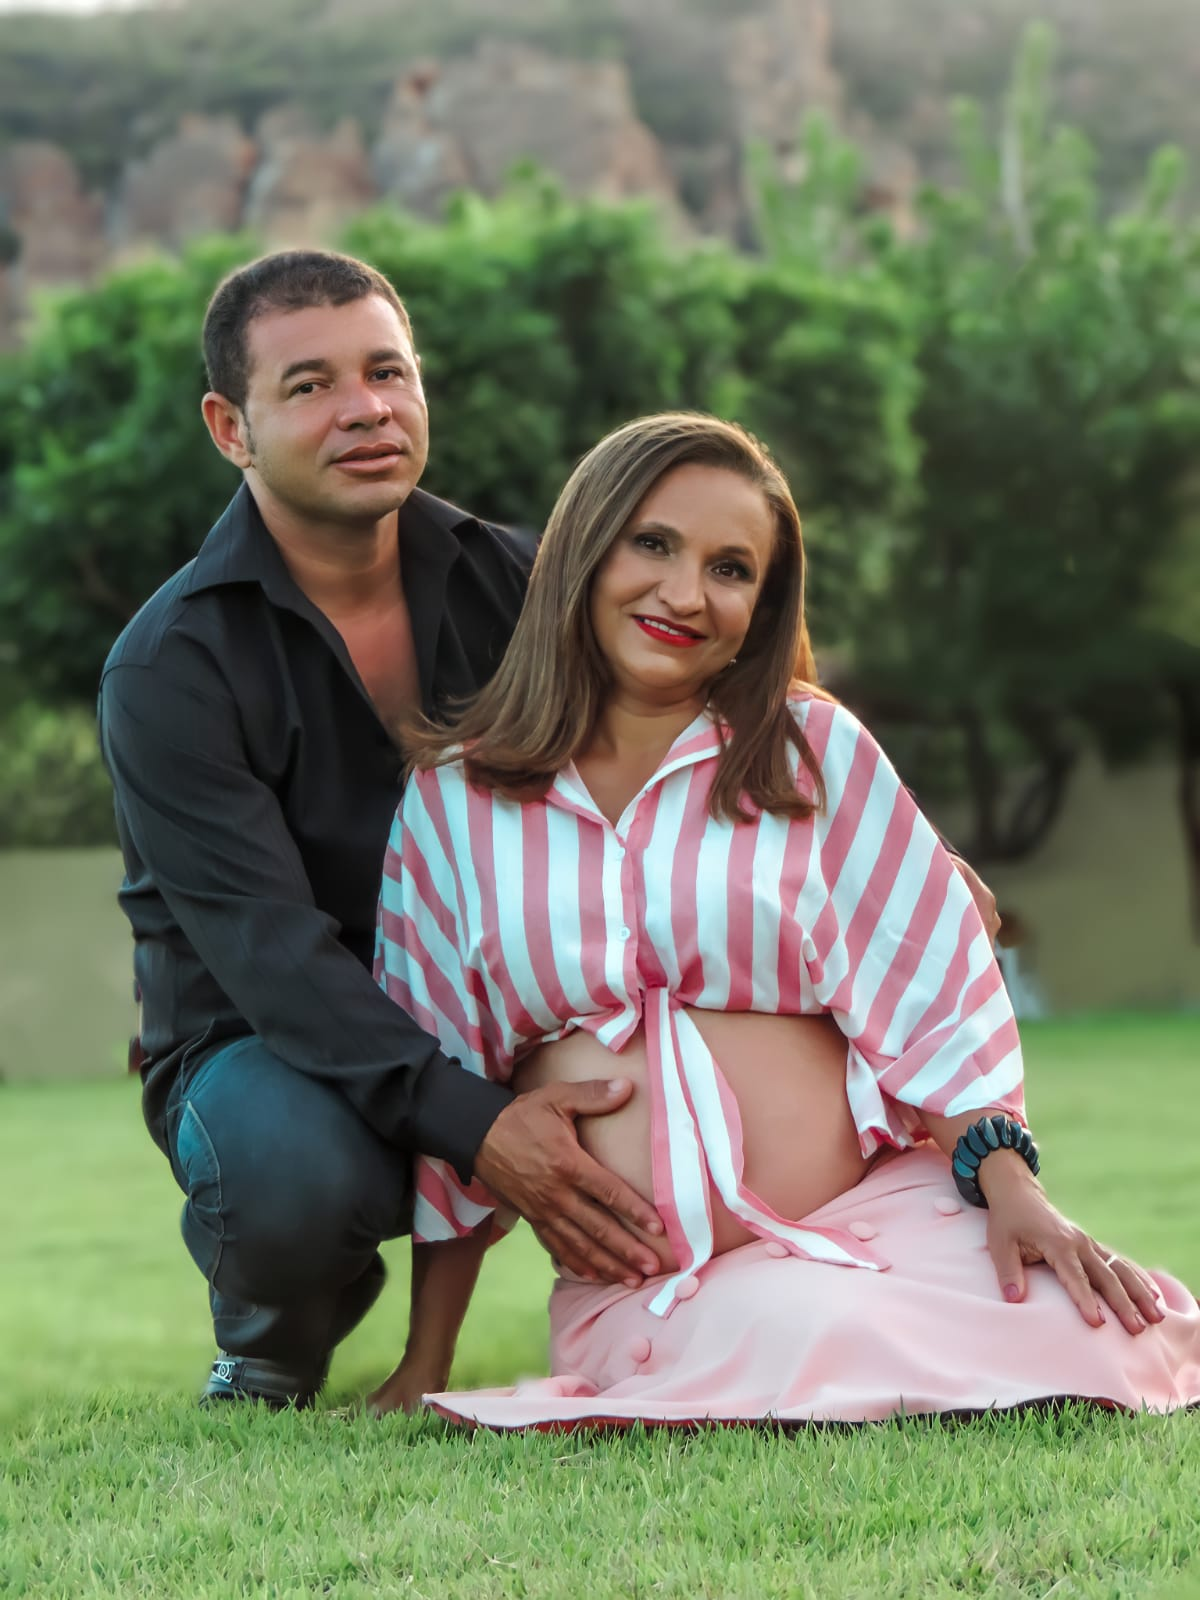
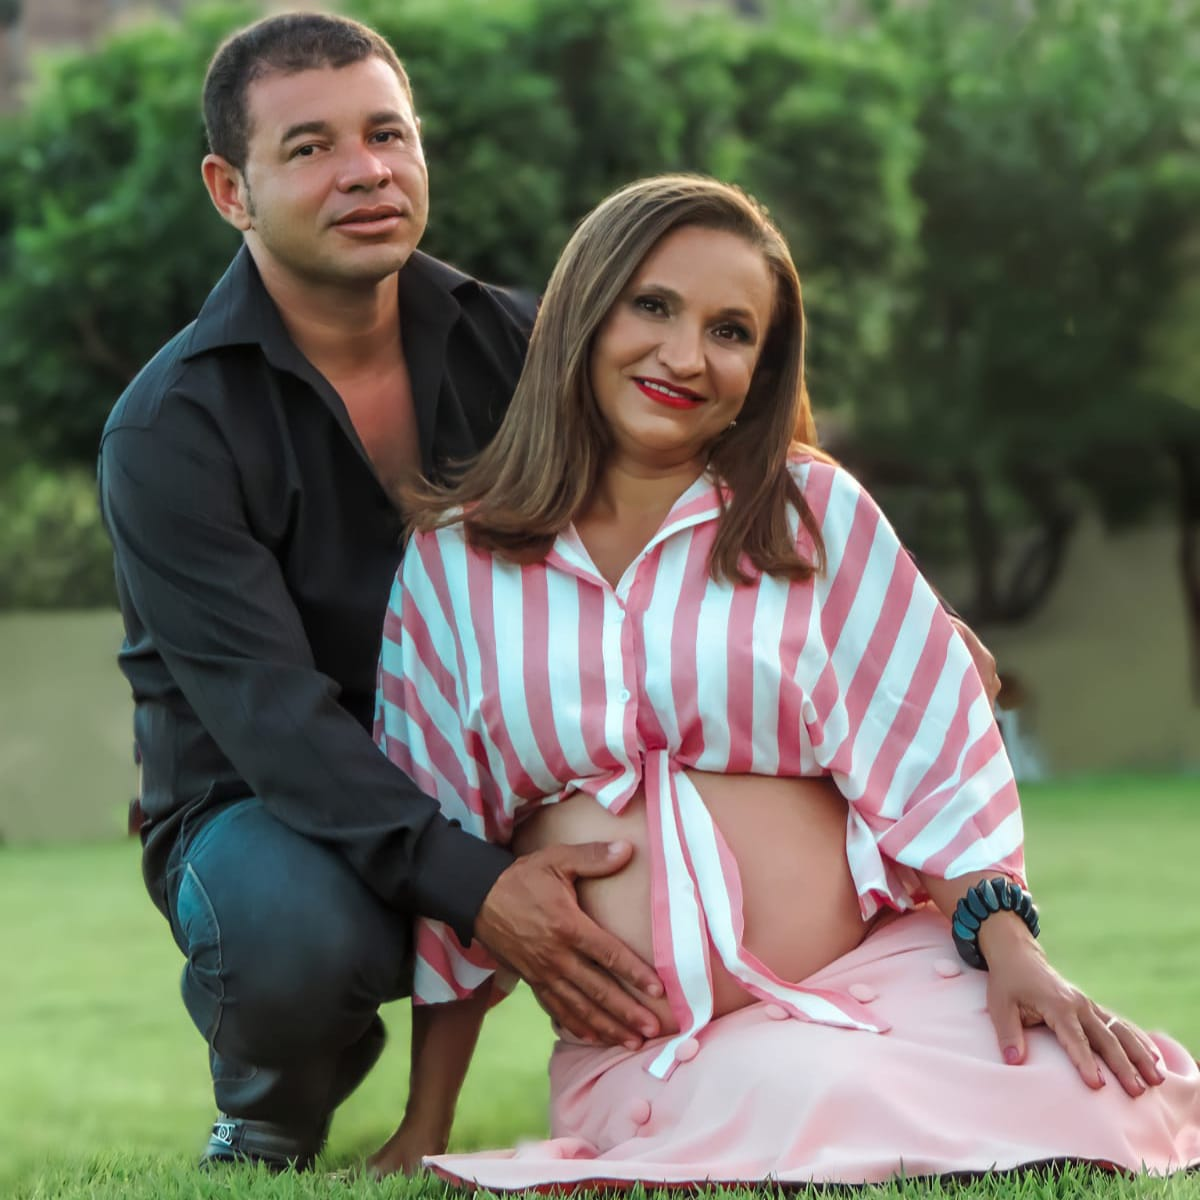
Upgrade

diff --git a/phlanny-2.0/static/css/ensaios.css b/phlanny-2.0/static/css/ensaios.css
@@ -1,13 +1,13 @@
 .ensaios {
-    background-color: var(--bg-escuro);
+    background-color: var(--preto);
     margin-top: 50vh;
-    padding-bottom: 10vh;
+    padding-bottom: 1vh;
 }
 
 .ensaios__chamada {
     color: var(--branco);
     font-size: 1.25rem;
-    padding: 2rem 0 4rem 0;
+    padding: 1rem 0 3rem 0;
     text-align: center;
 }
 
@@ -21,40 +21,44 @@
         background-image: url("../img/casal1.jpeg")
     }
     10% {
-        background-image: url("../img/feminino3.jpg")
+        background-image: url("../img/feminino7.jpeg")
     }
     20% {
         background-image: url("../img/casal2.jpeg")
     }
     30% {
-        background-image: url("../img/crianca1.jpeg")
+        background-image: url("../img/bg2.jpeg")
     }
     40% {
-        background-image: url("../img/feminino6.jpg")
+        background-image: url("../img/feminino2.jpeg")
     }
     50% {
         background-image: url("../img/casal3.jpeg")
     }
     60% {
-        background-image: url("../img/casal4.jpeg")
+        background-image: url("../img/feminino1.jpeg")
     }
     70% {
-        background-image: url("../img/feminino7.jpg")
+        background-image: url("../img/gestante1.jpeg")
+    }
+    75% {
+        background-image: url("../img/casal4.jpeg")
     }
     80% {
-        background-image: url("../img/bg2.jpg")
+        background-image: url("../img/casal2.jpeg")
     }
 }
 
 .ensaios__fotos {
     width: 80vw;
-    height: 120vh;
+    height: 100vh;
     margin: 0 auto;
     background-image: url("../img/casal1.jpeg");
-    background-position: center;
+    background-position: top;
     background-repeat: no-repeat;
+    background-size: cover;
     animation-name: animacao-fotos;
-    animation-duration: 20s;
+    animation-duration: 60s;
     animation-iteration-count: infinite;
 }
 

diff --git a/phlanny-2.0/index.html b/phlanny-2.0/index.html
@@ -2,7 +2,7 @@
 <html lang="pt-br">
 <header>
     <meta charset="utf-8">
-    <meta name="viewport" content="width=device-width initial-scale=1.0">
+    <meta name="viewport" content="width=device-width, initial-scale=1.0">
     <title>Ph Lanny</title>
     <link rel="stylesheet" href="static/css/reset.css">
     <link rel="preconnect" href="https://fonts.gstatic.com">
@@ -44,7 +44,7 @@
             <div class="ensaios__fotos"></div>
         </section>
         <section class="descricao" id="descricao">
-            <img class="descricao__imagem" src="./static/img/bg2.jpg" alt="Foto da Lanny">
+            <img class="descricao__imagem" src="./static/img/bg2.jpeg" loading="lazy" alt="Foto da Lanny">
             <div class="descricao__texto ">
                 <p>Olá , sejam todos bem vindos! Talvez você já tenha ouvido falar sobre mim, mas caso não tenha, meu nome é Weslayne Vieira , mais conhecida como <strong>Lanny</strong>, Tenho 23 anos e atualmente moro em São Raimundo Nonato - PI .
                 </p>

diff --git a/phlanny-2.0/static/css/missao.css b/phlanny-2.0/static/css/missao.css
@@ -1,18 +1,47 @@
+@keyframes cores {
+    16% {
+        background-color: #d87d86;
+    }
+    32% {
+        background-color: #ddb887;
+    }
+    48% {
+        background-color: #cece81;
+    }
+    64% {
+        background-color: #7cc88a;
+    }
+    80% {
+        background-color: #7e7ed8;
+    }
+    100% {
+        background-color: #ca73c4;
+    }
+}
+
 .missao {
     padding-top: 6rem;
     text-align: center;
 }
 
 .missao__texto {
+    animation-name: cores;
+    animation-duration: 60s;
+    animation-iteration-count: infinite;
     display: inline-block;
     color: var(--branco);
     background-color: var(--bg-escuro);
     padding: 1rem 2rem;
     font-weight: 500;
+    width: 60vw;
 }
 
 @media screen and (max-width: 1024px) {
     .missao {
         padding-top: 9rem;
+    }
+    .missao__texto {
+        width: 90vw;
+        border-radius: 8px;
     }
 }

diff --git a/phlanny-2.0/static/css/base.css b/phlanny-2.0/static/css/base.css
@@ -1,8 +1,10 @@
 :root {
     --branco: #fdfdfd;
-    --bg-escuro: #00000070;
+    --preto: #000;
+    --bg-escuro: #00000080;
     --cinza12: #1C1C1C;
     --cinza-escuro: rgba(26, 26, 26, .85);
+    --verde: #008B8B;
     --fonte-padrao: ubuntu;
 }
 
